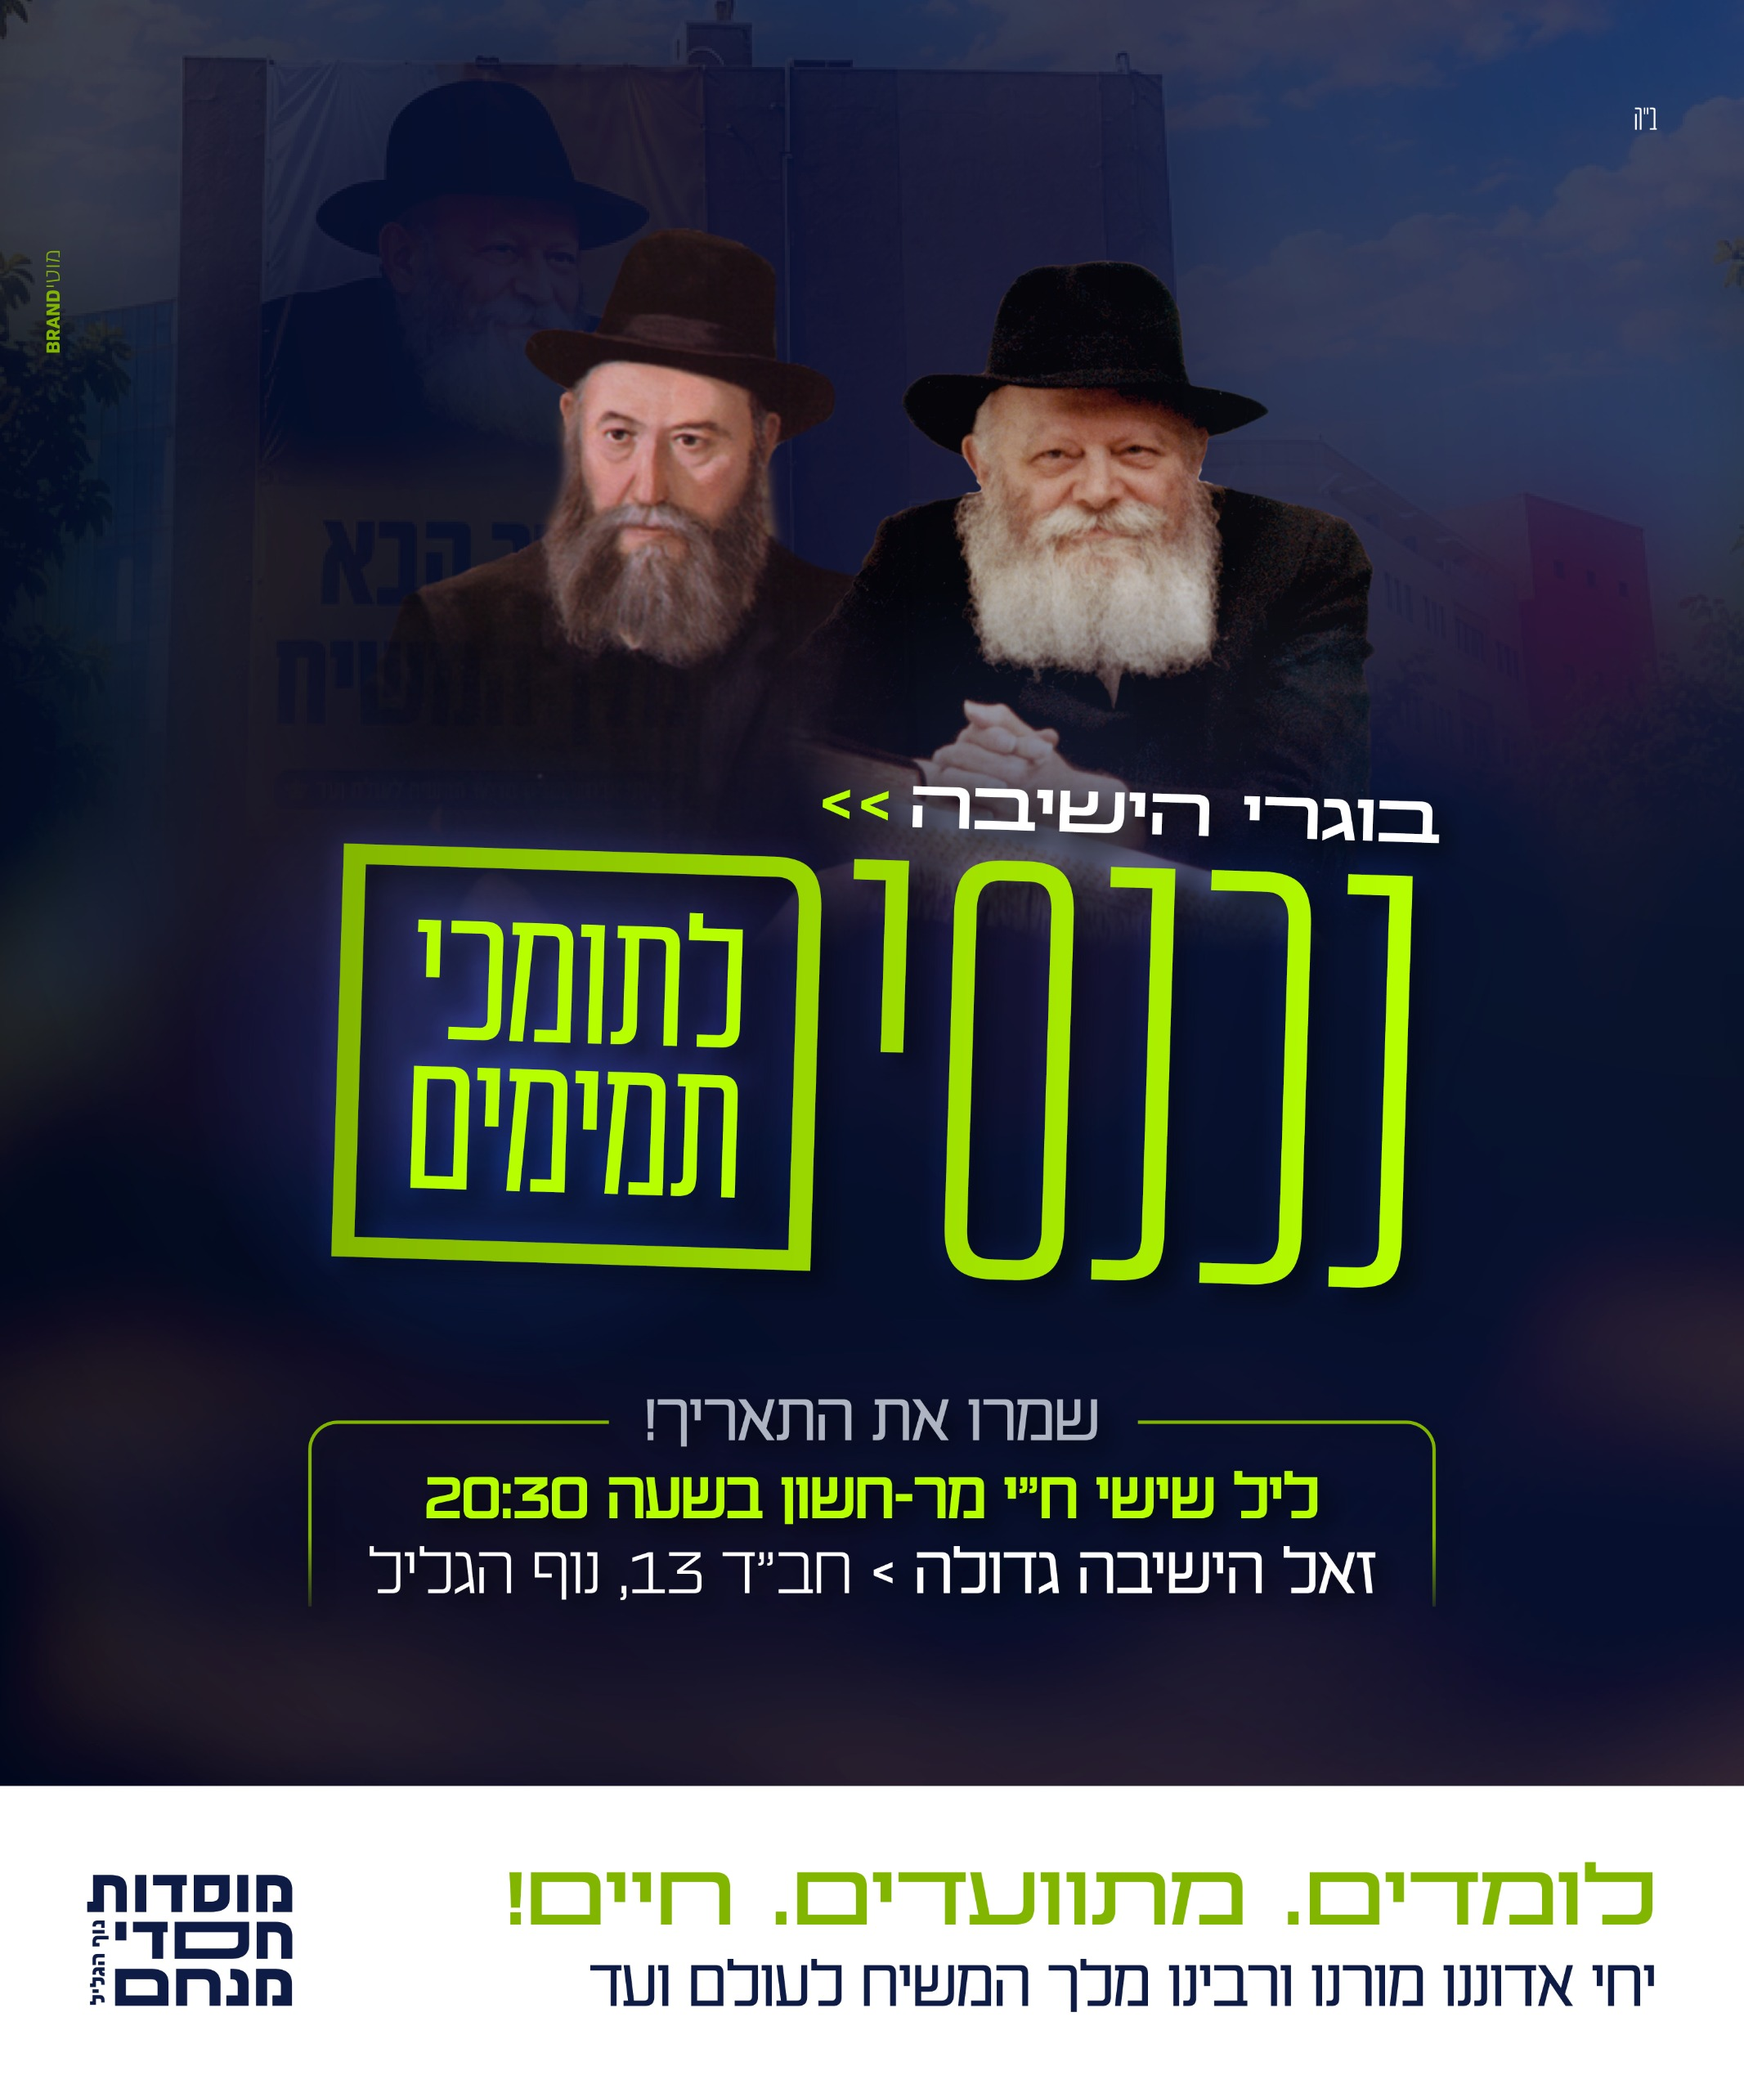
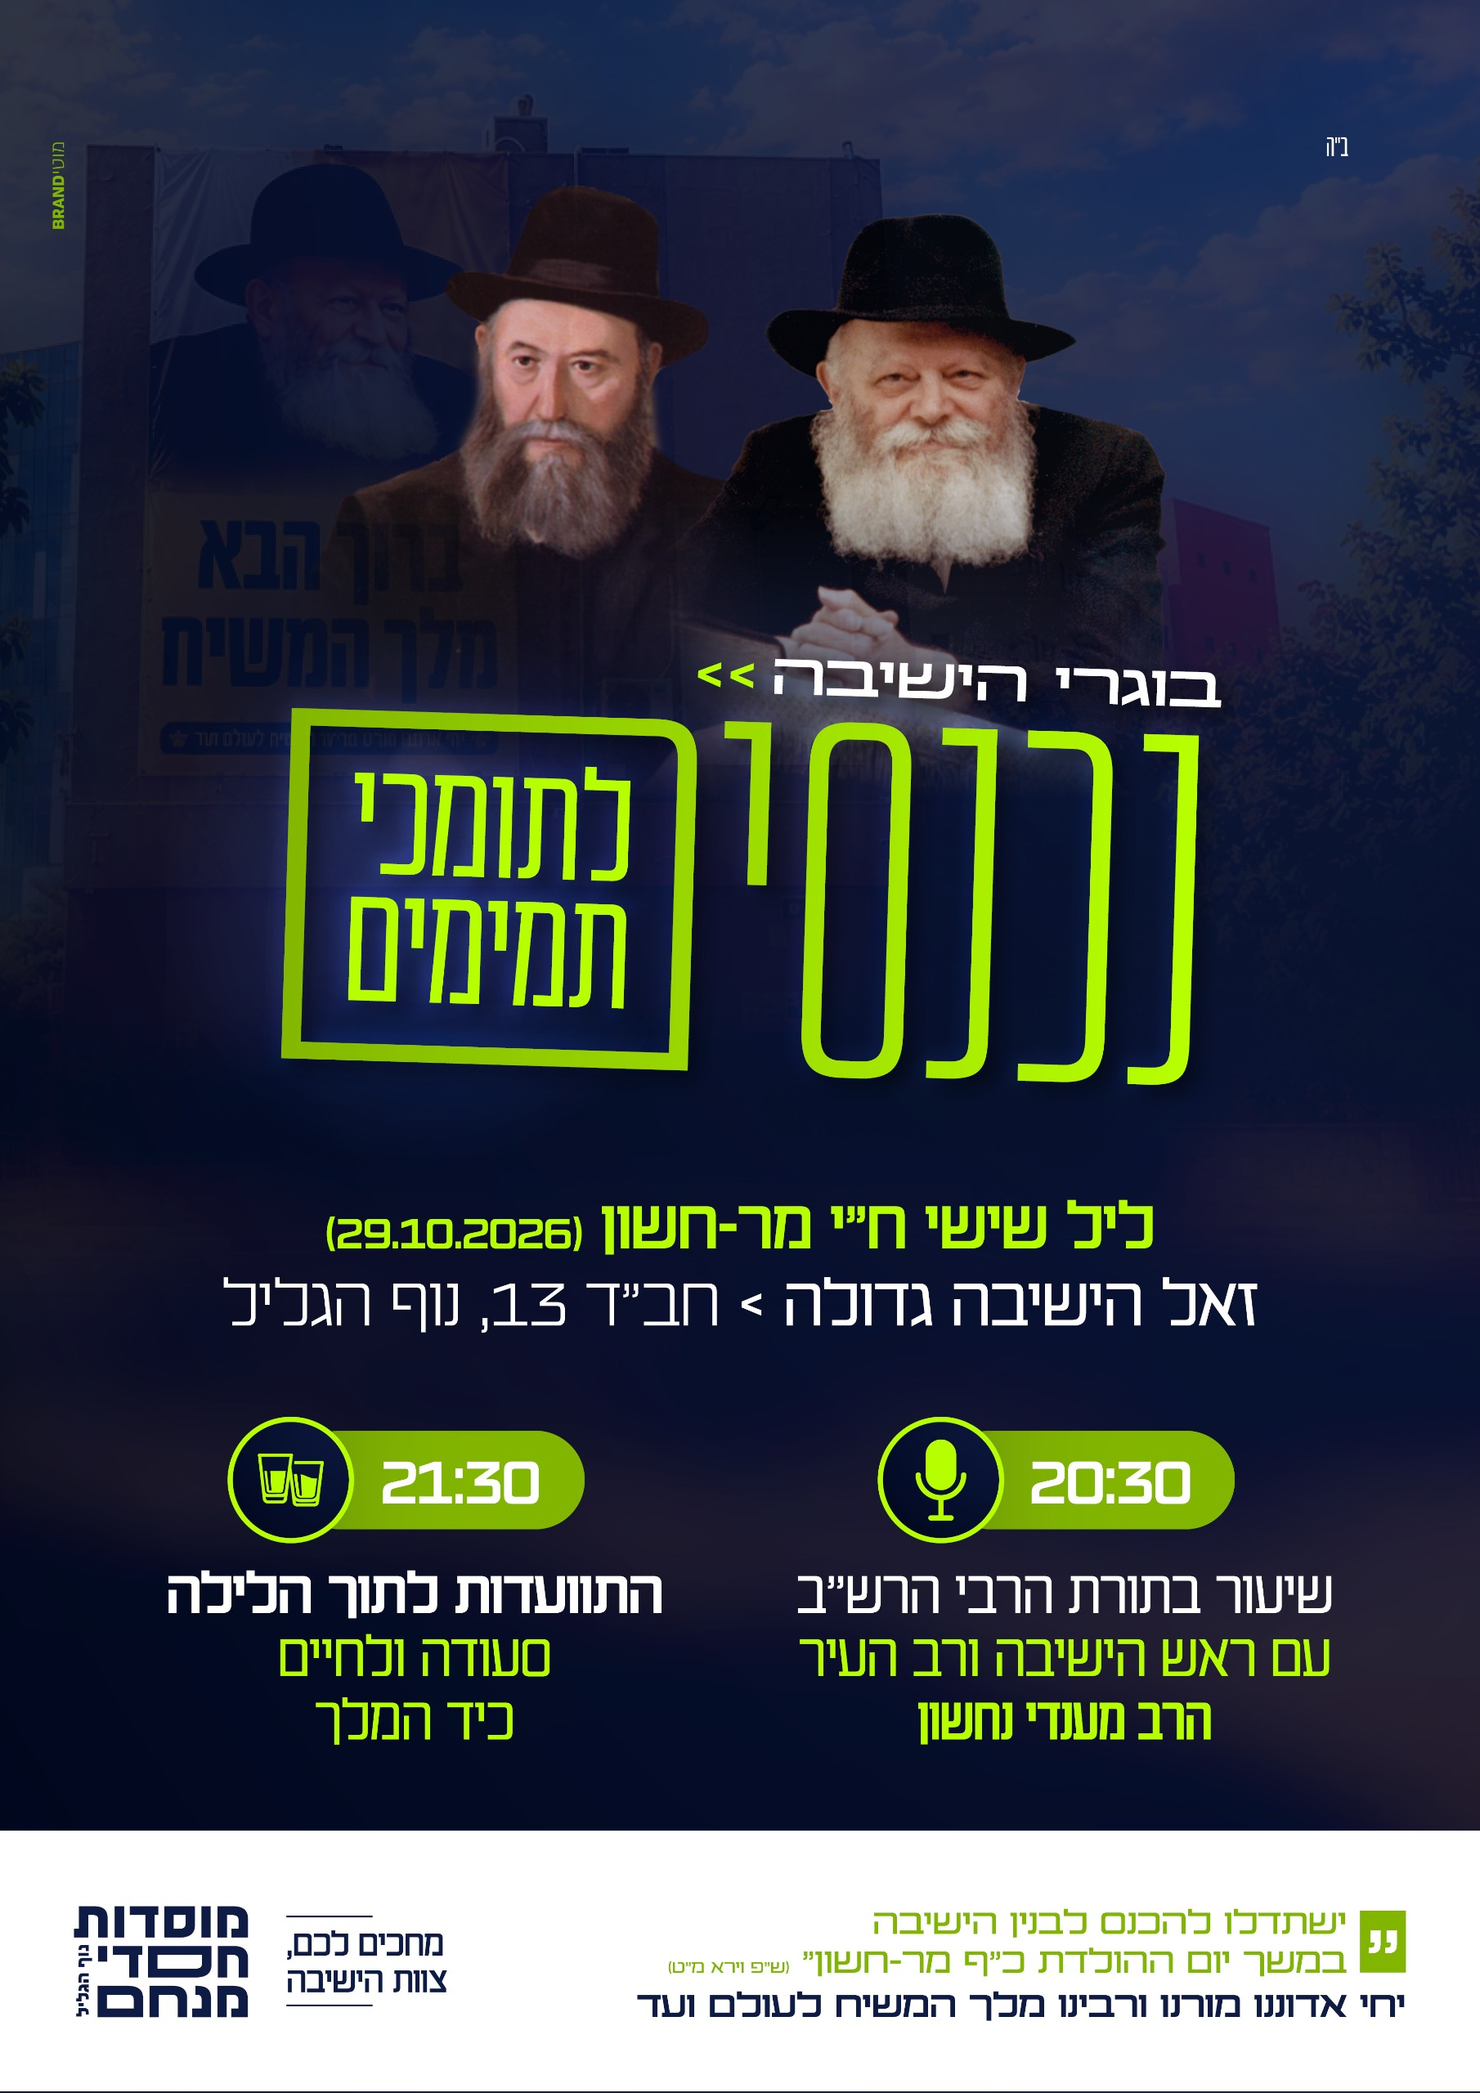
נכנסים לתומכי תמימים: עדכון למודעה החדשה — תאריך, לוח זמנים, כפתורים
- מודעת האירוע הוחלפה בגרסה החדשה (public/yeshiva-poster.jpg).
- תאריך מעודכן לפי המודעה: ליל שישי, י"ח מרחשון (29.10.2026).
- נוסף כרטיס לוח זמנים: 20:30 שיעור בתורת הרבי הרש"ב עם הרב מענדי נחשון,
  21:30 התוועדות לתוך הלילה (סעודה ולחיים כיד המלך) — בתגי שעה עגולים
  בצבע ליים, כמו הבדג'ים במודעה עצמה.
- כפתור השליחה ואפשרויות ההגעה עוצבו מחדש כ"כדורים" (pill) מלאים/
  מסומנים בליים, תואם לעיצוב המודעה החדשה.

Claude-Session: https://claude.ai/code/session_0156ACKdHpqnDEqpD4wbL2q9

diff --git a/public/yeshiva.html b/public/yeshiva.html
@@ -21,14 +21,28 @@
     --wine:#ff8a93; --wine-soft:#3a1b24; --sage:#c3f000; --sage-soft:#243018;
     --shadow:0 1px 2px rgba(0,0,0,.35), 0 10px 26px -12px rgba(0,0,0,.6);
   }
-  /* כפתור ראשי עם מסגרת ליים (לא מילוי) — כמו התיבה הירוקה במודעה עצמה. */
-  button.primary{background:transparent;border:2px solid var(--accent);color:var(--accent)}
+  /* כפתור ראשי כ"כדור" ליים מלא — כמו תגי השעות העגולים במודעה עצמה. */
+  button.primary{background:var(--accent);border:2px solid var(--accent);color:var(--bg);border-radius:999px;font-weight:800}
   .poster{width:100%;border-radius:var(--radius);box-shadow:var(--shadow);margin-bottom:16px;display:block}
+
+  /* לוח הזמנים (שיעור 20:30 + התוועדות 21:30) — תג שעה עגול בצבע ליים,
+     כמו הבדג'ים העגולים עם האייקון והשעה במודעה עצמה. */
+  .schedule-row{display:flex;align-items:center;gap:12px;padding:10px 0;border-top:1px solid var(--line)}
+  .schedule-row:first-child{border-top:none}
+  .schedule-badge{
+    flex:none;display:flex;flex-direction:column;align-items:center;justify-content:center;
+    width:54px;height:54px;border-radius:999px;background:var(--accent);color:var(--bg);
+    font-weight:900;font-size:12.5px;line-height:1.2;
+  }
+  .schedule-badge .ico{font-size:16px;line-height:1}
+  .schedule-text b{display:block;font-size:14px}
+  .schedule-text span{display:block;font-size:12.5px;color:var(--ink-dim);margin-top:2px}
+
   /* בחירת ההגעה כ"כרטיסיות" גדולות וקלילות למגע, במקום עיגולי ראדיו
      קטנים — כל השורה לחיצה, הבחירה מודגשת ע"י :has() בלי צורך ב-JS נוסף. */
   .attendance-opt{
-    display:flex;align-items:center;gap:10px;padding:14px 16px;margin-top:8px;
-    border:1.5px solid var(--line);border-radius:12px;background:var(--surface-2);
+    display:flex;align-items:center;gap:10px;padding:14px 18px;margin-top:8px;
+    border:1.5px solid var(--line);border-radius:999px;background:var(--surface-2);
     cursor:pointer;font-weight:700;font-size:14.5px;transition:background .15s,border-color .15s;
   }
   .attendance-opt input{width:auto;margin:0}
@@ -50,8 +64,25 @@
     <div class="notice critical" id="closedMessage"></div>
   </div>
 
+  <div class="card" id="scheduleCard" style="display:none">
+    <p class="hint" style="margin:0 0 10px">ליל שישי, י"ח מרחשון (29.10.2026) · זאל הישיבה הגדולה, חב"ד 13, נוף הגליל</p>
+    <div class="schedule-row">
+      <div class="schedule-badge"><span class="ico">🎤</span>20:30</div>
+      <div class="schedule-text">
+        <b>שיעור בתורת הרבי הרש"ב</b>
+        <span>עם ראש הישיבה ורב העיר, הרב מענדי נחשון</span>
+      </div>
+    </div>
+    <div class="schedule-row">
+      <div class="schedule-badge"><span class="ico">🥂</span>21:30</div>
+      <div class="schedule-text">
+        <b>התוועדות לתוך הלילה</b>
+        <span>סעודה ולחיים כיד המלך</span>
+      </div>
+    </div>
+  </div>
+
   <div class="card" id="formCard" style="display:none">
-    <p class="hint" style="margin:0 0 4px">ליל שישי, כ' מרחשון, בשעה 20:30</p>
     <label for="fullNameInput">שם ושם משפחה</label>
     <input type="text" id="fullNameInput" placeholder="לדוגמה: ישראל ישראלי">
     <label for="phoneInput">טל. נייד</label>
@@ -103,6 +134,7 @@ async function init() {
       document.getElementById('closedCard').style.display = '';
       return;
     }
+    document.getElementById('scheduleCard').style.display = '';
     document.getElementById('formCard').style.display = '';
   } catch (err) {
     document.getElementById('initialLoading').textContent = err.message;
@@ -146,6 +178,7 @@ document.getElementById('submitBtn').onclick = async () => {
       const confirmOverwrite = confirm(`${fieldLabel} ששלחת שונה ממה שמילאת בפעם הקודמת. לעדכן?`);
       result = await api('/yeshiva/register', { method: 'POST', body: { ...payload, confirmExisting: true, confirmOverwrite } });
     }
+    document.getElementById('scheduleCard').style.display = 'none';
     document.getElementById('formCard').style.display = 'none';
     document.getElementById('successCard').style.display = '';
   } catch (err) {
